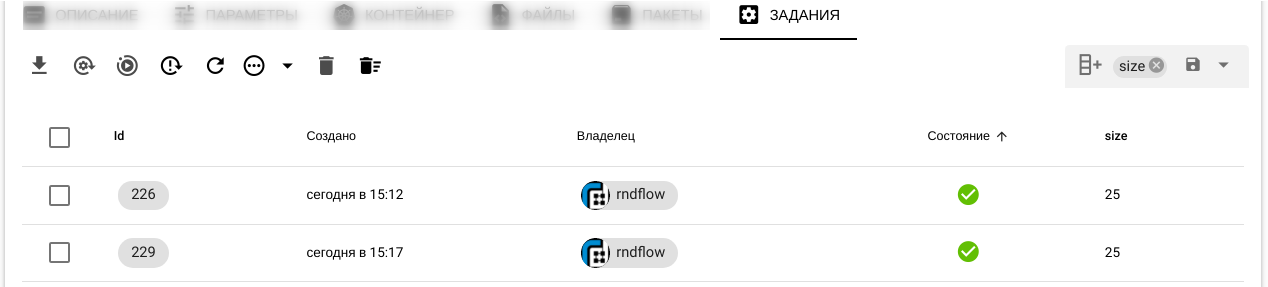
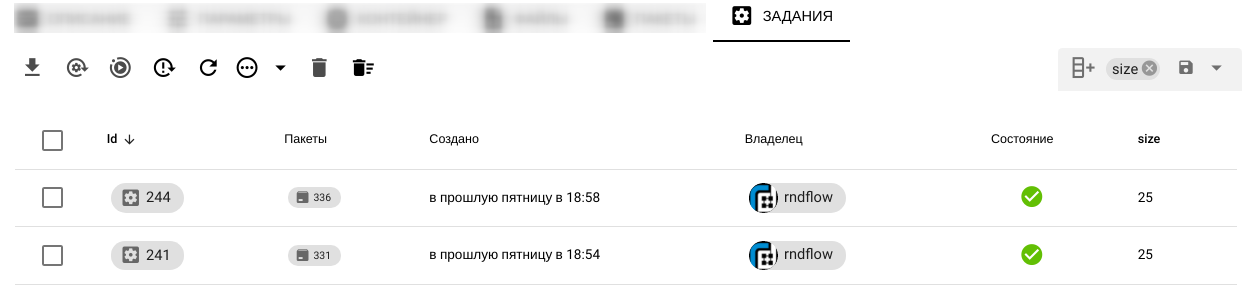
Job info refactoring

diff --git a/src/.vuepress/config.js b/src/.vuepress/config.js
@@ -63,6 +63,7 @@ module.exports = {
             '/desc/links',
             '/desc/node_params',
             '/desc/package',
+            '/desc/job',
             '/desc/project_role',
             '/desc/project_user',
             '/desc/secrets',

diff --git a/src/desc/nodes.md b/src/desc/nodes.md
@@ -10,7 +10,7 @@
 
 - <span class="iconify-inline" data-icon="bi:toggle2-off"></span> Отключен
 
-В активном состоянии в узле автоматически обрабатываются (создаются [задания](#задания)) все приходящие в него пакеты.
+В активном состоянии в узле автоматически обрабатываются (создаются [задания][5]) все приходящие в него пакеты.
 
 ## Типы и состав узлов
 
@@ -340,13 +340,7 @@ Cтруктура:
 
 ### Задания
 
-**Задание** (Job) - экземпляр выполнения узла с конкретными входными пакетами и параметрами.
-
-Общее количество выполняемых заданий в узле в текущем [слое данных][1] отображается в виде ярлыка <span class='iconify-inline' data-icon='ph:number-square-one-fill' style="color: green"></span>:
-
-![Node packages count](/images/common/node_compute_jobs.png)
-
-В соответствующей вкладке **Задания** узла отображается полных список выполненных ранее и выполняемых заданий:
+В вкладке <span class='iconify-inline' data-icon='mdi:cog-box'></span> **Задания** отображается список [заданий][5] узла в рамках выбранного [слоя данных][1]:
 
 ![Node job list](/images/common/node_panel_job.png)
 
@@ -362,11 +356,11 @@ Cтруктура:
   - <span class="iconify-inline" data-icon="mdi:dots-horizontal-circle-outline"></span> Фильтрация заданий по состоянию
   - <span class="iconify-inline" data-icon="mdi:delete"></span> Удаление выбранных заданий
   - <span class="iconify-inline" data-icon="mdi:delete-sweep"></span> Удаление всех заданий
-  - <span class="iconify-inline" data-icon="mdi:table-column-plus-after"></span> Добавление переменной пакета
+  - <span class="iconify-inline" data-icon="mdi:table-column-plus-after"></span> Добавление параметра узла
 
-    Добавление переменной пакета в качестве нового столбца в таблице заданий.
+    Добавление параметра узла в качестве нового столбца в таблице заданий.
 
-    Список добавленных переменных с возможностью удаления <span class='iconify-inline' data-icon='mdi:close'></span> .
+    Список добавленных параметров с возможностью удаления <span class='iconify-inline' data-icon='mdi:close'></span> .
 
   - <span class="iconify-inline" data-icon="mdi:content-save"></span> Сохранить набор текущих столбцов
 
@@ -374,26 +368,25 @@ Cтруктура:
   - Столбцы таблицы
     - <span class="iconify-inline" data-icon="mdi:checkbox-blank-outline"></span> - переключатель выбора задания
     - Id - идентификатор задания
+    - Пакеты - идентификаторы входных пакетов
     - Создано - время инициации задания
     - Владелец - пользователь создавший задание
-    - Состояние - текущее состояние выполнения задания
-
-Состояние задания:
-
-- <span class="iconify-inline" data-icon="mdi:circle-outline" style="color: grey"></span> - Создано
-- <span class="iconify-inline" data-icon="mdi:progress-download" style="color: yellow"></span> - На сервере расчетов
-- <span class="iconify-inline" data-icon="mdi:progress-clock" style="color: orange"></span> - В очереди на исполнение
-- <span class="iconify-inline" data-icon="mdi:progress-check" style="color: green"></span> - Стартовало
-- <span class="iconify-inline" data-icon="mdi:check-circle" style="color: green"></span> - Обработано
-- <span class="iconify-inline" data-icon="mdi:alert-circle" style="color: red"></span> - Ошибка
+    - Состояние - текущее [состояние][6] выполнения задания
 
 Для открытия окна конкретного задания необходимо щелкнуть по его идентификатору в столбце **Id**.
 
 Структура отображения состава задания:
 
 - Панель инструментов
+
+  - <span class='iconify-inline' data-icon='mdi:open-in-new'></span> Открыть задание на новой странице браузера
+    ::: tip <span class='iconify' data-icon='mdi:information' style='color: #42b983; font-size: 24px;'></span>
+    При открытии задания на новой странице браузера возвращается прямая ссылка на задание.
+    :::
+
   - <span class='iconify-inline' data-icon='mdi:fullscreen'></span> Открыть на весь экран
   - <span class='iconify-inline' data-icon='mdi:close'></span> Закрыть
+
 - История обработки
 - <span class='iconify-inline' data-icon='mdi:package'></span> Входные пакеты
 - <span class='iconify-inline' data-icon='mdi:package'></span> Выходные пакеты
@@ -423,3 +416,5 @@ Cтруктура:
 [2]: /docs/desc/node_params.md#управление-параметрами
 [3]: /docs/desc/package.md#состав
 [4]: /docs/desc/package.md
+[5]: /docs/desc/job.md
+[6]: /docs/desc/job.md#состояния

diff --git a/src/instructions/package.md b/src/instructions/package.md
@@ -22,10 +22,10 @@
 
   ![Run package](/images/common/node_panel_packages_execute.png)
 
-- Перейти в панель <span class="iconify-inline" data-icon="mdi:cog-box"></span>[Задания][2] узла, в котором должно появиться новое задание. Может потребоваться обновить <span class="iconify-inline" data-icon="mdi:refresh"></span> список заданий.
+- Перейти в панель <span class="iconify-inline" data-icon="mdi:cog-box"></span>[Задания][2] узла, в котором должно появиться новое [задание][8]. Может потребоваться обновить <span class="iconify-inline" data-icon="mdi:refresh"></span> список заданий.
 
 ::: tip <span class='iconify' data-icon='mdi:information' style='color: #42b983; font-size: 24px;'></span>
-Процесс выполнения задания можно контролировать с помощью файла журнала <span class='iconify-inline' data-icon='mdi:file-clock'></span> **идентификатор_задания.log**, который расположен в списке файлов задания (см. панель <span class="iconify-inline" data-icon="mdi:cog-box"></span>[Задания][2]).
+Процесс выполнения [задания][8] можно контролировать с помощью файла журнала <span class='iconify-inline' data-icon='mdi:file-clock'></span> **идентификатор_задания.log**, который расположен в списке файлов [задания][8] (см. панель <span class="iconify-inline" data-icon="mdi:cog-box"></span>[Задания][2]).
 :::
 
 ## Интерактивная обработка пакета
@@ -43,7 +43,7 @@
 
   ![Run package](/images/common/node_panel_packages_execute_jupyter.png)
 
-- Перейти в панель <span class="iconify-inline" data-icon="mdi:cog-box"></span> [Задания][2] узла, в котором должно появиться новое задание. Может потребоваться обновить <span class="iconify-inline" data-icon="mdi:refresh"></span> список заданий.
+- Перейти в панель <span class="iconify-inline" data-icon="mdi:cog-box"></span> [Задания][2] узла, в котором должно появиться новое [задание][8]. Может потребоваться обновить <span class="iconify-inline" data-icon="mdi:refresh"></span> список заданий.
 
 - Когда **Состояние** задания станет вида <span class="iconify-inline" data-icon="mdi:motion-play" style="color: green"></span>, щелкнуть по иконке состояния <span class="iconify-inline" data-icon="mdi:motion-play" style="color: green"></span>.
 
@@ -65,10 +65,10 @@
 
 - В вкладке с Jupyter панелью нажать кнопку **Quit** (верхний правый угол).
   ::: warning <span class="iconify" data-icon="emojione-v1:warning" style="color: #e7c000; font-size: 24px;"></span>
-  Через определенное время заданное в настройках [исполнителя задач](/docs/desc/executor.md) (по умолчанию 24 часа) интерактивная задача будет автоматически остановлена.
+  Через определенное время заданное в настройках [исполнителя задач](/docs/desc/executor.md) (по умолчанию 24 часа) интерактивное [задание][8] будет автоматически остановлено.
   :::
 
-- Перейти в панель <span class="iconify-inline" data-icon="mdi:cog-box"></span> [Задания][2] узла и щелкнуть по идентификатору задания в поле **Id**.
+- Перейти в панель <span class="iconify-inline" data-icon="mdi:cog-box"></span> [Задания][2] узла и щелкнуть по идентификатору [задания][8] в поле **Id**.
   ![Node job](/images/common/job.png)
 
 - В списке файлов выбрать необходимые файлы и нажать для каждого кнопку <span class='iconify-inline' data-icon='mdi:content-save'></span> для сохранения изменений в [файлы][5] узла.
@@ -88,3 +88,4 @@
 [5]: /docs/desc/nodes.md#фаилы
 [6]: /docs/desc/package.md
 [7]: /docs/desc/package.md#состав
+[8]: /docs/desc/job.md

diff --git a/src/desc/job.md b/src/desc/job.md
@@ -1,0 +1,29 @@
+# Задания
+
+## Описание
+
+**Задание** (Job) - экземпляр выполнения узла с конкретными входными [пакетами][1] и [параметрами][2].
+
+Список заданий отображается в [панели узла][3] в вкладке <span class='iconify-inline' data-icon='mdi:cog-box'></span> [**Задания**][4].
+
+Общее количество выполняемых заданий в узле в текущем [слое данных][5] отображается в виде ярлыка <span class='iconify-inline' data-icon='ph:number-square-three-fill' style="color: green"></span>:
+
+![Node packages count](/images/common/node_compute_jobs.png)
+
+## Состояния
+
+Типы состояний заданий:
+
+- <span class="iconify-inline" data-icon="mdi:circle-outline" style="color: grey"></span> - Создано
+- <span class="iconify-inline" data-icon="mdi:progress-download" style="color: yellow"></span> - На [сервере расчетов][6]
+- <span class="iconify-inline" data-icon="mdi:progress-clock" style="color: orange"></span> - В очереди на исполнение
+- <span class="iconify-inline" data-icon="mdi:progress-check" style="color: green"></span> - Стартовало
+- <span class="iconify-inline" data-icon="mdi:check-circle" style="color: green"></span> - Обработано
+- <span class="iconify-inline" data-icon="mdi:alert-circle" style="color: red"></span> - Ошибка
+
+[1]: /docs/desc/package.md
+[2]: /docs/desc/node_params.md
+[3]: /docs/desc/nodes.md#панели-узла
+[4]: /docs/desc/nodes.md#задания
+[5]: ./project.md#слои-данных
+[6]: /docs/desc/executor.md

diff --git a/src/desc/package.md b/src/desc/package.md
@@ -43,7 +43,7 @@
 
 1. Автоматическом
 
-   Автоматическая обработка пакета происходит в случае если узел находится в активном [состоянии][8]. В этом случае для каждого нового входящего пакета автоматически создается [задание][9], которое отравляется на соответствующий сервер расчетов проекта.
+   Автоматическая обработка пакета происходит в случае, если узел находится в активном [состоянии][8]. В этом случае для каждого нового входящего пакета автоматически создается [задание][9], которое отравляется на соответствующий сервер расчетов проекта.
 
 2. [Ручном не интерактивном][10]
 
@@ -61,7 +61,7 @@
 [6]: /docs/desc/nodes.md#sql-узел
 [7]: /docs/desc/nodes.md#расчетныи-узел
 [8]: /docs/desc/nodes.md#состояние
-[9]: /docs/desc/nodes.md#задания
+[9]: /docs/desc/job.md
 [10]: /docs/instructions/package.md#обработка-пакета
 [11]: /docs/instructions/package.md#интерактивная-обработка-пакета
 [12]: https://en.wikipedia.org/wiki/SHA-2

diff --git a/src/desc/links.md b/src/desc/links.md
@@ -1,6 +1,6 @@
 # Связи узлов
 
-**Связь** (Link) - соединение, обеспечивающее перемещение пакетов от узла источника к узлу назначения.
+**Связь** (Link) - соединение, обеспечивающее перемещение [пакетов][1] от [узла][5] источника к [узлу][5] назначения.
 
 Управление:
 
@@ -73,5 +73,6 @@
 
 [1]: /docs/desc/package.md
 [2]: /docs/desc/nodes.md#группа
-[3]: /docs/desc/nodes.md#задания
+[3]: /docs/desc/job.md
 [4]: /docs/desc/package.md#состав
+[5]: /docs/desc/nodes.md

diff --git a/src/desc/project.md b/src/desc/project.md
@@ -11,7 +11,7 @@
 - [Граф](#граф) - реализующий конкретный алгоритм в составе
   - [Узлы](./nodes.md) и [группы](./nodes.md#группа)
   - [Пакеты](./package.md)
-  - [Задания](./nodes.md#задания)
+  - [Задания](./job.md)
 - [Секреты](./secrets.md) - набор секретов для использовании в узлах при их исполнении
 - [Интерфейсы](./interface.md) - графические интерфейсы управления графом
 - [Разрешения](#разрешения) - набор прав доступа

diff --git a/src/intro/definitions.md b/src/intro/definitions.md
@@ -46,7 +46,7 @@
 
 [Мастер пакет](/docs/desc/package.md) (Master package) - выбранный пользователем корневой пакет слоя данных.
 
-[Задание](/docs/desc/nodes.md#задания) (Job) - экземпляр выполнение узла с конкретными входными пакетами и параметрами.
+[Задание](/docs/desc/job.md) (Job) - экземпляр выполнение узла с конкретными входными пакетами и параметрами.
 
 ![Job](/images/common/job.png)
 
